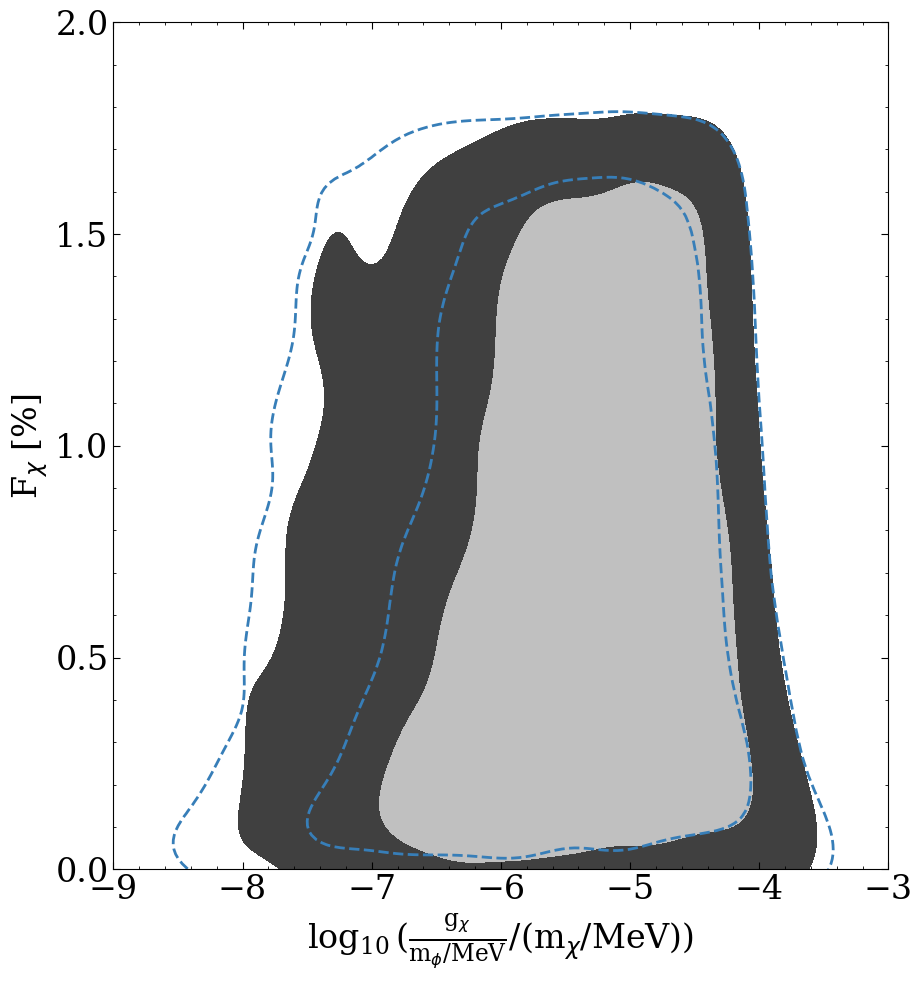
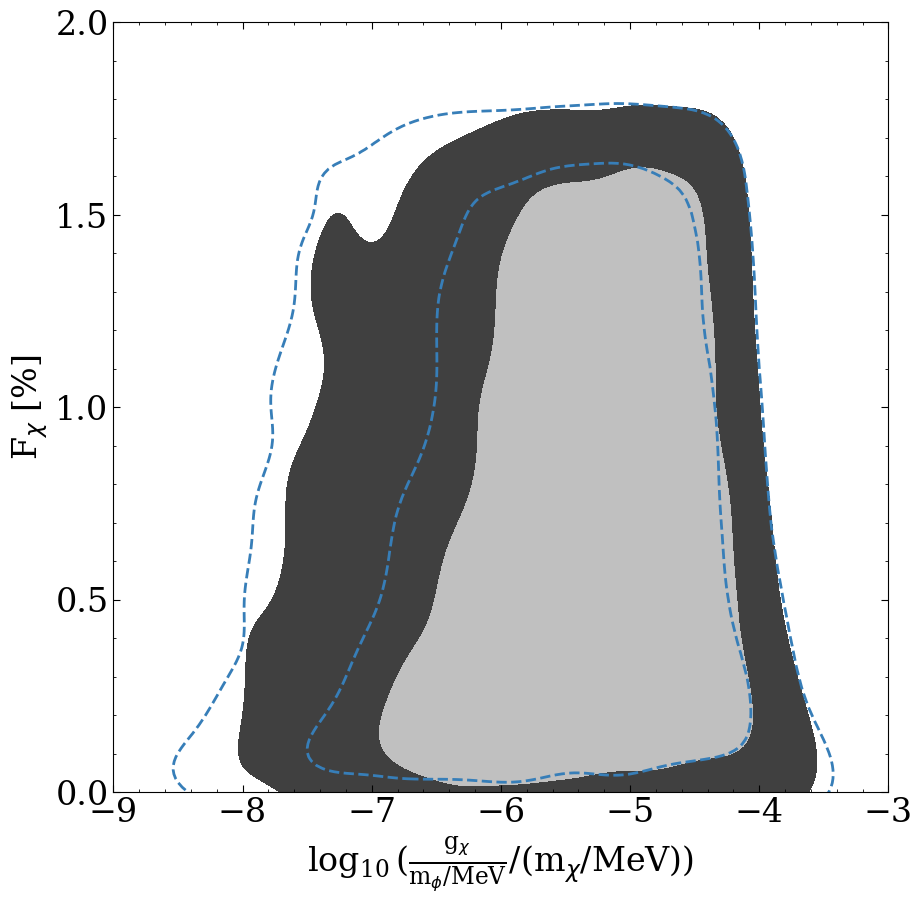
Finishing touches.

diff --git a/plot_routines/Figure_5.py b/plot_routines/Figure_5.py
@@ -95,14 +95,14 @@ Matrix = np.zeros((len(mchi),3))
 for i in range(len(mchi)):
     Matrix[i] =np.log10(mchi[i]),np.log10(gchi_over_mphi[i]),Fchi[i]
 
-    
-    
+#Here we are simply stacking the Matrix_priors to get the priors and posteriors to show up together in the 1-D histograms
+Matrix_prior = np.vstack((Matrix_prior,Matrix_prior))  
 ell = corner.corner(Matrix_prior,smooth = 1.0,color = '#377eb8',group = 'prior',range = [(1,9),(-5,3),(0,1.7)],
                    plot_datapoints = False,plot_density = True,plot_contours = True,divergences = False,
                     hist_kwargs = {'linestyle': '--','linewidth': 2.0}, contour_kwargs = {'linestyles':'dashed','linewidths': 2.0})
 
 #Here we are simply stacking the Matrix posteriors to get the priors and posteriors to show up together in the corner plot (really in the 1-D histograms)
-#Matrix = np.vstack((Matrix,Matrix,Matrix))
+Matrix = np.vstack((Matrix,Matrix,Matrix))
 
 figure = corner.corner(Matrix,smooth = 1.0,fig = ell,labels = [r"log$_{10}$(m$_\chi$/MeV)",r"log$_{10}$($\frac{\mathdefault{g}_\chi}{\mathdefault{m}_\phi/\mathrm{MeV}})$",r"F$_\chi$ [%]"],
                       range = [(1,9),(-5,3),(0,1.7)], show_titles = True,label_kwargs = {"fontsize":18,"font":'serif'},title_kwargs = {"fontsize":15})
@@ -188,7 +188,7 @@ pyplot.rcParams['xtick.top'] = True
 # In[12]:
 
 
-fig,ax = pyplot.subplots(figsize = (10,11))
+fig,ax = pyplot.subplots(figsize = (10,10))
 
 plot = sns.kdeplot(x = matrix[:,0],y = matrix[:,1],fill = True,cbar = False,cmap = 'gray'
                    ,common_norm = True,levels=[0.05,0.32,1.],ax = ax)
@@ -249,7 +249,7 @@ if args.repro:
 else:
     ewposterior = np.loadtxt(posterior_data_directory + 'FUTUREX_NO_ADM_VARYING_BARYONIC_post_equal_weights.dat')
 
-print('Generating the posterior corner plot')
+print('Generating the posterior corner plotxx')
 
 mchi = ewposterior[:,5]
 gchi_over_mphi = ewposterior[:,6]
@@ -260,13 +260,13 @@ for i in range(len(mchi)):
     Matrix[i] =np.log10(mchi[i]),np.log10(gchi_over_mphi[i]),Fchi[i]
 
     
-    
+
 ell = corner.corner(Matrix_prior,smooth = 1.0,color = '#377eb8',group = 'prior',range = [(1,9),(-5,3),(0,1.7)],
                    plot_datapoints = False,plot_density = True,plot_contours = True,divergences = False,
                     hist_kwargs = {'linestyle': '--','linewidth': 2.0}, contour_kwargs = {'linestyles':'dashed','linewidths': 2.0})
 
-#Here we are simply stacking the Matrix posteriors to get the priors and posteriors to show up together in the corner plot (really in the 1-D histograms)
-#Matrix = np.vstack((Matrix,Matrix))
+#Here we are simply stacking the Matrix posteriors to get the priors and posteriors to show up together in the 1-D histograms
+Matrix = np.vstack((Matrix,Matrix,Matrix))
 
 figure = corner.corner(Matrix,smooth = 1.0,fig = ell,labels = [r"log$_{10}$(m$_\chi$/MeV)",r"log$_{10}$($\frac{\mathdefault{g}_\chi}{\mathdefault{m}_\phi/\mathrm{MeV}})$",r"F$_\chi$ [%]"],
                       range = [(1,9),(-5,3),(0,1.7)], show_titles = True,label_kwargs = {"fontsize":18,"font":'serif'},title_kwargs = {"fontsize":15})
@@ -307,7 +307,7 @@ for i in range(len(matrixp)):
 # In[19]:
 
 
-fig,ax = pyplot.subplots(figsize = (10,11))
+fig,ax = pyplot.subplots(figsize = (10,10))
 
 plot = sns.kdeplot(x = matrix[:,0],y = matrix[:,1],fill = True,cbar = False,cmap = 'gray'
                    ,common_norm = True,levels=[0.05,0.32,1.],ax = ax)

diff --git a/plot_routines/Figure_3.py b/plot_routines/Figure_3.py
@@ -189,7 +189,7 @@ pyplot.rcParams['xtick.top'] = True
 # In[12]:
 
 
-fig,ax = pyplot.subplots(figsize = (10,11))
+fig,ax = pyplot.subplots(figsize = (10,10))
 
 plot = sns.kdeplot(x = matrix[:,0],y = matrix[:,1],fill = True,cbar = False,cmap = 'gray'
                    ,common_norm = True,levels=[0.05,0.32,1.],ax = ax)
